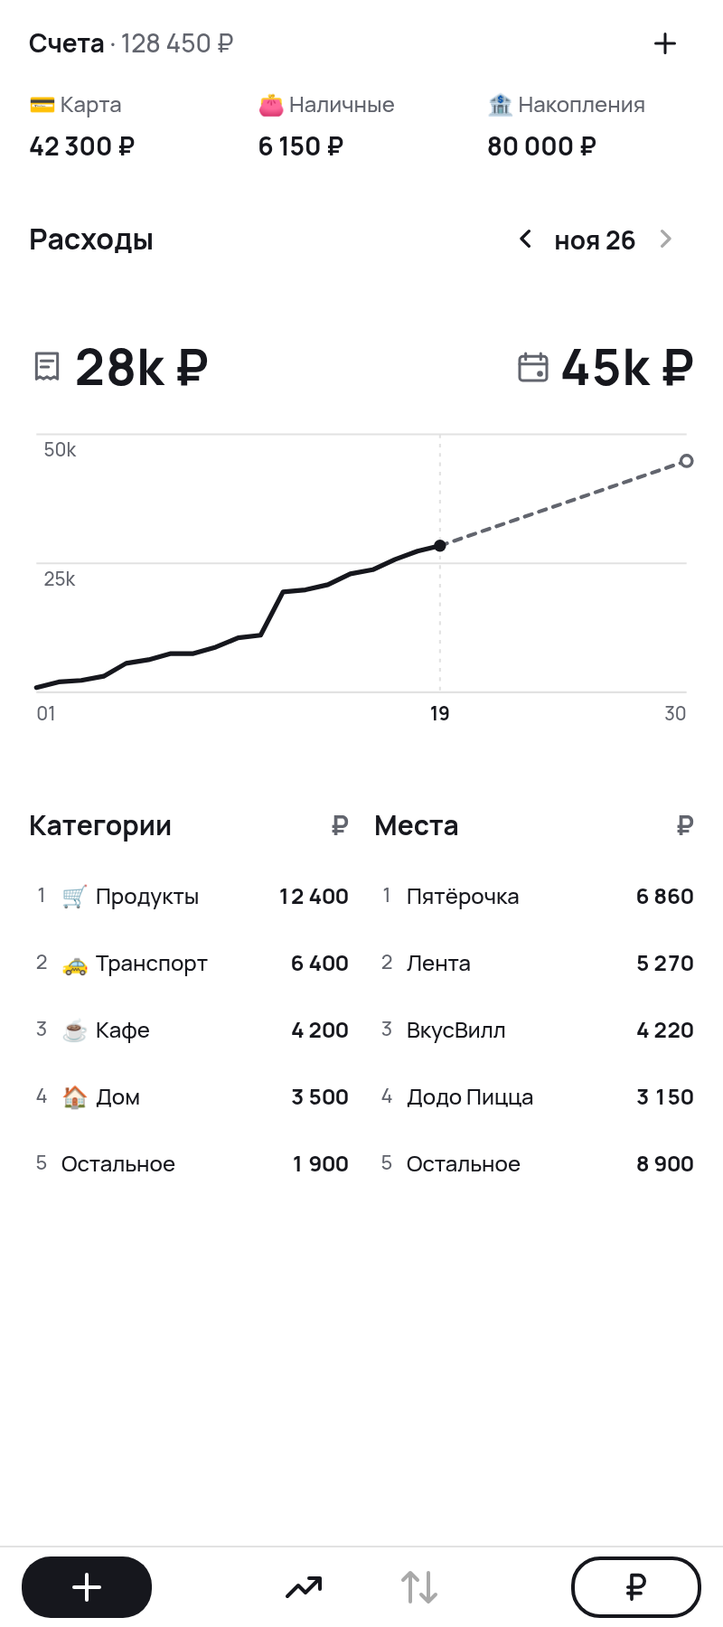
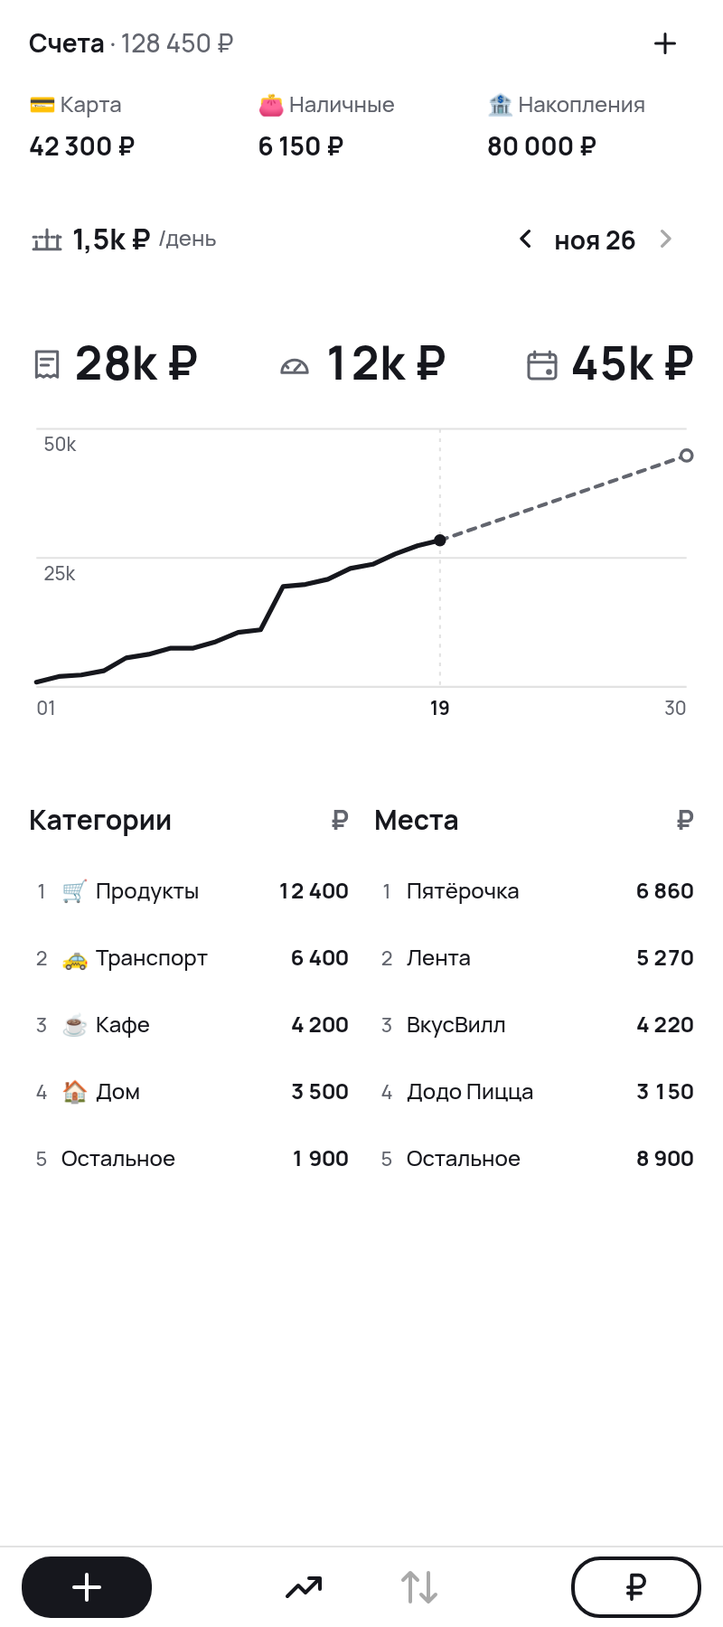
docs: preview daily spending and remaining monthly limit (#267)

diff --git a/design/approved/267/screens.html b/design/approved/267/screens.html
@@ -5,7 +5,7 @@
   *{box-sizing:border-box}body{margin:0;background:#eeeef1;color:var(--ink);font:14px/1.4 Manrope,sans-serif}
   main{max-width:960px;margin:auto;padding:24px 16px;display:grid;grid-template-columns:repeat(auto-fit,minmax(min(100%,320px),1fr));gap:20px;align-items:start}
   .screen{width:100%;max-width:390px;margin:auto;background:var(--surface);padding:16px 18px 14px;border-radius:16px}
-  h1,p{margin:0}h1{font-size:16px}
+  p{margin:0}
   .expenses-heading,.accounts-heading{display:flex;align-items:center;justify-content:space-between}
   .month-selector{display:flex;align-items:center;white-space:nowrap;font-weight:700}
   .month-selector button{display:grid;place-items:center;width:32px;height:40px;color:var(--ink);background:transparent;border:0;padding:0}
@@ -16,10 +16,13 @@
   .pace > svg{display:block;width:100%;height:auto;fill:var(--ink)}.grid,.trend{fill:none;stroke:var(--divider)}
   .pace > svg text{fill:var(--muted);font-size:10px}.trend{stroke:var(--ink);stroke-width:2.5;stroke-linecap:round;stroke-linejoin:round}
   .pace .current-date{fill:var(--ink);font-weight:700}.value-tick{paint-order:stroke;stroke:var(--surface);stroke-width:2.5px}
-  .pace-summary{display:flex;align-items:center;justify-content:space-between;gap:8px;margin-bottom:12px}
-  .pace-amount{display:flex;align-items:center;gap:5px;white-space:nowrap;font-size:clamp(20px,7.6cqw,28px);line-height:1.2;font-variant-numeric:tabular-nums}
+  .pace-summary{display:grid;grid-template-columns:repeat(3,minmax(0,1fr));align-items:center;gap:4px;margin-bottom:12px}
+  .pace-amount{display:flex;align-items:center;gap:5px;white-space:nowrap;font-size:clamp(17px,7cqw,28px);line-height:1.2;font-variant-numeric:tabular-nums}
+  .amount-actual{grid-column:1;justify-self:start}.amount-remaining{grid-column:2;justify-self:center}.amount-estimate{grid-column:3;justify-self:end}
   .pace-icon{display:grid;place-items:center;color:var(--muted)}
   .pace-icon svg{width:20px;height:20px}.pace-icon path{fill:none;stroke-linejoin:round}
+  .daily-average{display:flex;align-items:center;gap:4px;white-space:nowrap;font-size:16px}
+  .daily-average span:last-child{color:var(--muted);font-size:12px}
   .forecast{fill:none;stroke:var(--muted);stroke-width:2;stroke-dasharray:4 4;stroke-linecap:round}
   .cutoff{stroke:var(--divider);stroke-dasharray:2 3}.estimate-dot{fill:var(--surface);stroke:var(--muted);stroke-width:1.6}
   .tables{display:grid;grid-template-columns:repeat(2,minmax(0,1fr));gap:14px;align-items:start}
@@ -54,7 +57,15 @@
   .finance-tabs button[aria-current]{color:var(--ink)}
   @media(max-width:360px){.finance-body{padding-inline:12px}}
 </style><main>
-<div class="screen" id="overview"><div class="expenses-heading"><h1>Расходы</h1>
+<div class="screen" id="overview"><div class="expenses-heading">
+      <div class="daily-average">
+        <span class="pace-icon" role="img" aria-label="Средние расходы">
+          <svg viewBox="0 0 24 24" aria-hidden="true" stroke="currentColor" stroke-width="1.8" stroke-linecap="round">
+            <path d="M5 19v-5m7 5V6m7 13v-9M3 19h18"/>
+            <path d="M3 11h18" stroke-dasharray="2 2"/>
+          </svg></span>
+        <b>1,5k ₽</b><span>/день</span>
+      </div>
       <div class="month-selector" role="group" aria-label="Выбор месяца">
         <button aria-label="Предыдущий месяц"><svg viewBox="0 0 24 24" aria-hidden="true"><path d="m14 7-5 5 5 5" fill="none" stroke="currentColor" stroke-width="2" stroke-linecap="round" stroke-linejoin="round"/></svg></button><span>ноя 26</span>
         <button aria-label="Следующий месяц" disabled><svg viewBox="0 0 24 24" aria-hidden="true"><path d="m14 7-5 5 5 5" fill="none" stroke="currentColor" stroke-width="2" stroke-linecap="round" stroke-linejoin="round"/></svg></button>
@@ -65,7 +76,12 @@
         <svg viewBox="0 0 24 24" aria-hidden="true" stroke="currentColor" stroke-width="1.8" stroke-linecap="round">
           <path d="M5 3h14v17l-2.3-1.5-2.4 1.5-2.3-1.5L9.7 20l-2.4-1.5L5 20V3ZM8 8h8m-8 4h5"/>
         </svg></span>
-      <b>28k ₽</b></div><div class="pace-amount amount-estimate">
+      <b>28k ₽</b></div><div class="pace-amount amount-remaining">
+          <span class="pace-icon" role="img" aria-label="Осталось до лимита">
+            <svg viewBox="0 0 24 24" aria-hidden="true" stroke="currentColor" stroke-width="1.8" stroke-linecap="round">
+              <path d="M3.5 17a8.5 8.5 0 0 1 17 0h-17ZM12 15.5l3.5-4M6.7 12.7l1 1"/>
+            </svg></span>
+          <b>12k ₽</b></div><div class="pace-amount amount-estimate">
           <span class="pace-icon" role="img" aria-label="Прогноз на конец месяца">
             <svg viewBox="0 0 24 24" aria-hidden="true" fill="none" stroke="currentColor" stroke-width="1.8" stroke-linecap="round">
               <rect x="3" y="5" width="18" height="16" rx="2"/>
@@ -120,7 +136,12 @@
         <svg viewBox="0 0 24 24" aria-hidden="true" stroke="currentColor" stroke-width="1.8" stroke-linecap="round">
           <path d="M5 3h14v17l-2.3-1.5-2.4 1.5-2.3-1.5L9.7 20l-2.4-1.5L5 20V3ZM8 8h8m-8 4h5"/>
         </svg></span>
-      <b>57k ₽</b></div><div class="pace-amount amount-estimate">
+      <b>57k ₽</b></div><div class="pace-amount amount-remaining">
+          <span class="pace-icon" role="img" aria-label="Осталось до лимита">
+            <svg viewBox="0 0 24 24" aria-hidden="true" stroke="currentColor" stroke-width="1.8" stroke-linecap="round">
+              <path d="M3.5 17a8.5 8.5 0 0 1 17 0h-17ZM12 15.5l3.5-4M6.7 12.7l1 1"/>
+            </svg></span>
+          <b>23k ₽</b></div><div class="pace-amount amount-estimate">
           <span class="pace-icon" role="img" aria-label="Прогноз на конец месяца">
             <svg viewBox="0 0 24 24" aria-hidden="true" fill="none" stroke="currentColor" stroke-width="1.8" stroke-linecap="round">
               <rect x="3" y="5" width="18" height="16" rx="2"/>
@@ -139,7 +160,12 @@
         <svg viewBox="0 0 24 24" aria-hidden="true" stroke="currentColor" stroke-width="1.8" stroke-linecap="round">
           <path d="M5 3h14v17l-2.3-1.5-2.4 1.5-2.3-1.5L9.7 20l-2.4-1.5L5 20V3ZM8 8h8m-8 4h5"/>
         </svg></span>
-      <b>85k ₽</b></div><div class="pace-amount amount-estimate">
+      <b>85k ₽</b></div><div class="pace-amount amount-remaining">
+          <span class="pace-icon" role="img" aria-label="Осталось до лимита">
+            <svg viewBox="0 0 24 24" aria-hidden="true" stroke="currentColor" stroke-width="1.8" stroke-linecap="round">
+              <path d="M3.5 17a8.5 8.5 0 0 1 17 0h-17ZM12 15.5l3.5-4M6.7 12.7l1 1"/>
+            </svg></span>
+          <b>35k ₽</b></div><div class="pace-amount amount-estimate">
           <span class="pace-icon" role="img" aria-label="Прогноз на конец месяца">
             <svg viewBox="0 0 24 24" aria-hidden="true" fill="none" stroke="currentColor" stroke-width="1.8" stroke-linecap="round">
               <rect x="3" y="5" width="18" height="16" rx="2"/>
@@ -158,7 +184,15 @@
         <div class="accounts-heading"><span><b>Счета</b> · 128 450 ₽</span>
           <button class="account-add" aria-label="Создать счёт"><svg viewBox="0 0 24 24" aria-hidden="true"><path d="M12 5v14M5 12h14" stroke="currentColor" stroke-width="2" stroke-linecap="round"/></svg></button></div>
         <div class="accounts"><div><p>💳 Карта</p><b>42 300 ₽</b></div><div><p>👛 Наличные</p><b>6 150 ₽</b></div><div><p>🏦 Накопления</p><b>80 000 ₽</b></div></div>
-        <div class="expenses-heading"><h1>Расходы</h1>
+        <div class="expenses-heading">
+      <div class="daily-average">
+        <span class="pace-icon" role="img" aria-label="Средние расходы">
+          <svg viewBox="0 0 24 24" aria-hidden="true" stroke="currentColor" stroke-width="1.8" stroke-linecap="round">
+            <path d="M5 19v-5m7 5V6m7 13v-9M3 19h18"/>
+            <path d="M3 11h18" stroke-dasharray="2 2"/>
+          </svg></span>
+        <b>1,5k ₽</b><span>/день</span>
+      </div>
       <div class="month-selector" role="group" aria-label="Выбор месяца">
         <button aria-label="Предыдущий месяц"><svg viewBox="0 0 24 24" aria-hidden="true"><path d="m14 7-5 5 5 5" fill="none" stroke="currentColor" stroke-width="2" stroke-linecap="round" stroke-linejoin="round"/></svg></button><span>ноя 26</span>
         <button aria-label="Следующий месяц" disabled><svg viewBox="0 0 24 24" aria-hidden="true"><path d="m14 7-5 5 5 5" fill="none" stroke="currentColor" stroke-width="2" stroke-linecap="round" stroke-linejoin="round"/></svg></button>
@@ -169,7 +203,12 @@
         <svg viewBox="0 0 24 24" aria-hidden="true" stroke="currentColor" stroke-width="1.8" stroke-linecap="round">
           <path d="M5 3h14v17l-2.3-1.5-2.4 1.5-2.3-1.5L9.7 20l-2.4-1.5L5 20V3ZM8 8h8m-8 4h5"/>
         </svg></span>
-      <b>28k ₽</b></div><div class="pace-amount amount-estimate">
+      <b>28k ₽</b></div><div class="pace-amount amount-remaining">
+          <span class="pace-icon" role="img" aria-label="Осталось до лимита">
+            <svg viewBox="0 0 24 24" aria-hidden="true" stroke="currentColor" stroke-width="1.8" stroke-linecap="round">
+              <path d="M3.5 17a8.5 8.5 0 0 1 17 0h-17ZM12 15.5l3.5-4M6.7 12.7l1 1"/>
+            </svg></span>
+          <b>12k ₽</b></div><div class="pace-amount amount-estimate">
           <span class="pace-icon" role="img" aria-label="Прогноз на конец месяца">
             <svg viewBox="0 0 24 24" aria-hidden="true" fill="none" stroke="currentColor" stroke-width="1.8" stroke-linecap="round">
               <rect x="3" y="5" width="18" height="16" rx="2"/>

diff --git a/design/approved/267/render.js b/design/approved/267/render.js
@@ -31,8 +31,9 @@ const path = require('node:path');
     assert.equal(await pace.getAttribute('data-days'), '30');
     assert.equal(await pace.getAttribute('data-actual-days'), '19');
     assert.match(await pace.locator('.amount-actual').innerText(), /^28k\s₽$/);
+    assert.match(await pace.locator('.amount-remaining').innerText(), /^12k\s₽$/);
     assert.match(await pace.locator('.amount-estimate').innerText(), /^45k\s₽$/);
-    assert.equal(await pace.locator('.pace-summary svg').count(), 2);
+    assert.equal(await pace.locator('.pace-summary svg').count(), 3);
     assert.deepEqual(await pace.locator('.date-tick, .current-date').allTextContents(), ['01', '19', '30']);
     assert.equal(await pace.locator('.current-date').textContent(), '19');
     const coordinates = await pace.evaluate(panel => {
@@ -82,10 +83,11 @@ const path = require('node:path');
     assert(await page.evaluate(() => document.documentElement.scrollWidth <= innerWidth));
     const largestSummary = charts.at(-1).locator('.pace-summary');
     const amountsFit = await largestSummary.evaluate(summary => {
-      const [actual, forecast] = Array.from(summary.children, child => child.getBoundingClientRect());
-      return summary.scrollWidth <= summary.clientWidth && actual.y === forecast.y && actual.right < forecast.left;
+      const [actual, remaining, forecast] = Array.from(summary.children, child => child.getBoundingClientRect());
+      return summary.scrollWidth <= summary.clientWidth && actual.y === remaining.y && remaining.y === forecast.y &&
+        actual.right < remaining.left && remaining.right < forecast.left;
     });
-    assert(amountsFit, 'Две суммы с иконками помещаются в одну строку при ширине 320 px');
+    assert(amountsFit, 'Три суммы с иконками помещаются в одну строку при ширине 320 px');
     const categoryBox = await overview.locator('table.categories').boundingBox();
     const placeBox = await overview.locator('table.places').boundingBox();
     assert(categoryBox.x + categoryBox.width <= placeBox.x, 'Категории слева от мест');
@@ -105,7 +107,7 @@ const path = require('node:path');
     await page.locator('#missing').screenshot({ path: path.join(__dirname, 'without-places.png') });
 
     const finance = page.locator('#finance');
-    assert.equal(await finance.locator('.expenses-heading h1').innerText(), 'Расходы');
+    assert.match(await finance.locator('.daily-average').innerText(), /^1,5k\s+₽\s*\/день$/);
     assert.equal(await finance.locator('.month-selector span').innerText(), 'ноя 26');
     assert(await finance.evaluate(screen => screen.scrollWidth <= screen.clientWidth));
     await page.setViewportSize({ width: 400, height: 900 });

diff --git a/design/approved/267/screens.py b/design/approved/267/screens.py
@@ -13,6 +13,7 @@ color = design['color']
 dim = design['dim']
 vector = design['vector']
 month_label = 'ноя 26'
+monthly_limit = 40_000
 daily = [900, 1100, 300, 800, 2500, 700, 1200, 0, 1250, 1800, 500, 8400, 400, 1000, 2100, 800, 2000, 1600, 1050]
 categories = [('Продукты', '🛒', 12400), ('Транспорт', '🚕', 6400), ('Кафе', '☕', 4200), ('Дом', '🏠', 3500), ('Здоровье', '💊', 1100), ('Связь', '📱', 800)]
 places = [('Пятёрочка', 6860), ('Лента', 5270), ('ВкусВилл', 4220), ('Додо Пицца', 3150), ('Аптека', 2100), ('Кофейня', 900)]
@@ -30,11 +31,14 @@ def money(amount):
     return digits(amount) + '\u00a0₽'
 
 
-def compact_money(amount):
+def compact_money(amount, *, tenths=False):
     if amount < 1000:
         return money(round(amount))
-    thousands = int((amount + 500) // 1000)
-    return f'{digits(thousands)}k\u00a0₽'
+    if tenths:
+        thousands = f'{amount / 1000:,.1f}'.removesuffix('.0').replace(',', '\u00a0').replace('.', ',')
+    else:
+        thousands = digits(int((amount + 500) // 1000))
+    return f'{thousands}k\u00a0₽'
 
 
 def scale_ceiling(amount):
@@ -44,7 +48,7 @@ def scale_ceiling(amount):
     return next(int(step * magnitude) for step in steps if step * magnitude >= amount)
 
 
-def pace(amounts, year, month):
+def pace(amounts, year, month, limit=None):
     last_day = monthrange(year, month)[1]
     as_of = len(amounts)
     assert 1 <= as_of <= last_day
@@ -84,7 +88,16 @@ def pace(amounts, year, month):
         cutoff = f'<line x1="{x(as_of):.2f}" y1="{top}" x2="{x(as_of):.2f}" y2="{bottom}" class="cutoff"/>'
     forecast = ''
     estimate_amount = ''
+    remaining_amount = ''
     description = f'С 1 по {as_of} число потрачено {money(actual)}.'
+    if limit is not None:
+        remaining = max(0, limit - actual)
+        remaining_amount = f'''<div class="pace-amount amount-remaining">
+          <span class="pace-icon" role="img" aria-label="Осталось до лимита">
+            <svg viewBox="0 0 24 24" aria-hidden="true" stroke="currentColor" stroke-width="1.8" stroke-linecap="round">
+              <path d="M3.5 17a8.5 8.5 0 0 1 17 0h-17ZM12 15.5l3.5-4M6.7 12.7l1 1"/>
+            </svg></span>
+          <b>{compact_money(remaining)}</b></div>'''
     if estimate is not None:
         description += f' Прогноз на {last_day} число — около {money(round(estimate))}.'
         estimate_amount = f'''<div class="pace-amount amount-estimate">
@@ -103,7 +116,7 @@ def pace(amounts, year, month):
         <svg viewBox="0 0 24 24" aria-hidden="true" stroke="currentColor" stroke-width="1.8" stroke-linecap="round">
           <path d="M5 3h14v17l-2.3-1.5-2.4 1.5-2.3-1.5L9.7 20l-2.4-1.5L5 20V3ZM8 8h8m-8 4h5"/>
         </svg></span>
-      <b>{compact_money(actual)}</b></div>{estimate_amount}</div>
+      <b>{compact_money(actual)}</b></div>{remaining_amount}{estimate_amount}</div>
     <svg viewBox="0 0 356 178" role="img" aria-label="{description}">
       <path d="{grid}" class="grid"/>{cutoff}{forecast}
       <polyline points="{coords}" class="trend"/>
@@ -141,12 +154,21 @@ def rankings(named_places=places):
 
 
 def month_content():
-    return pace(daily, 2026, 11) + rankings()
+    return pace(daily, 2026, 11, monthly_limit) + rankings()
 
 
 def expenses_heading():
     prev = '<svg viewBox="0 0 24 24" aria-hidden="true"><path d="m14 7-5 5 5 5" fill="none" stroke="currentColor" stroke-width="2" stroke-linecap="round" stroke-linejoin="round"/></svg>'
-    return f'''<div class="expenses-heading"><h1>Расходы</h1>
+    average = compact_money(total / len(daily), tenths=True)
+    return f'''<div class="expenses-heading">
+      <div class="daily-average">
+        <span class="pace-icon" role="img" aria-label="Средние расходы">
+          <svg viewBox="0 0 24 24" aria-hidden="true" stroke="currentColor" stroke-width="1.8" stroke-linecap="round">
+            <path d="M5 19v-5m7 5V6m7 13v-9M3 19h18"/>
+            <path d="M3 11h18" stroke-dasharray="2 2"/>
+          </svg></span>
+        <b>{average}</b><span>/день</span>
+      </div>
       <div class="month-selector" role="group" aria-label="Выбор месяца">
         <button aria-label="Предыдущий месяц">{prev}</button><span>{month_label}</span>
         <button aria-label="Следующий месяц" disabled>{prev}</button>
@@ -181,7 +203,7 @@ CSS = design['fonts'] + f''':root{{--ink:{color('textPrimary')};--muted:{color('
   *{box-sizing:border-box}body{margin:0;background:#eeeef1;color:var(--ink);font:14px/1.4 Manrope,sans-serif}
   main{max-width:960px;margin:auto;padding:24px 16px;display:grid;grid-template-columns:repeat(auto-fit,minmax(min(100%,320px),1fr));gap:20px;align-items:start}
   .screen{width:100%;max-width:390px;margin:auto;background:var(--surface);padding:16px 18px 14px;border-radius:16px}
-  h1,p{margin:0}h1{font-size:16px}
+  p{margin:0}
   .expenses-heading,.accounts-heading{display:flex;align-items:center;justify-content:space-between}
   .month-selector{display:flex;align-items:center;white-space:nowrap;font-weight:700}
   .month-selector button{display:grid;place-items:center;width:32px;height:40px;color:var(--ink);background:transparent;border:0;padding:0}
@@ -192,10 +214,13 @@ CSS = design['fonts'] + f''':root{{--ink:{color('textPrimary')};--muted:{color('
   .pace > svg{display:block;width:100%;height:auto;fill:var(--ink)}.grid,.trend{fill:none;stroke:var(--divider)}
   .pace > svg text{fill:var(--muted);font-size:10px}.trend{stroke:var(--ink);stroke-width:2.5;stroke-linecap:round;stroke-linejoin:round}
   .pace .current-date{fill:var(--ink);font-weight:700}.value-tick{paint-order:stroke;stroke:var(--surface);stroke-width:2.5px}
-  .pace-summary{display:flex;align-items:center;justify-content:space-between;gap:8px;margin-bottom:12px}
-  .pace-amount{display:flex;align-items:center;gap:5px;white-space:nowrap;font-size:clamp(20px,7.6cqw,28px);line-height:1.2;font-variant-numeric:tabular-nums}
+  .pace-summary{display:grid;grid-template-columns:repeat(3,minmax(0,1fr));align-items:center;gap:4px;margin-bottom:12px}
+  .pace-amount{display:flex;align-items:center;gap:5px;white-space:nowrap;font-size:clamp(17px,7cqw,28px);line-height:1.2;font-variant-numeric:tabular-nums}
+  .amount-actual{grid-column:1;justify-self:start}.amount-remaining{grid-column:2;justify-self:center}.amount-estimate{grid-column:3;justify-self:end}
   .pace-icon{display:grid;place-items:center;color:var(--muted)}
   .pace-icon svg{width:20px;height:20px}.pace-icon path{fill:none;stroke-linejoin:round}
+  .daily-average{display:flex;align-items:center;gap:4px;white-space:nowrap;font-size:16px}
+  .daily-average span:last-child{color:var(--muted);font-size:12px}
   .forecast{fill:none;stroke:var(--muted);stroke-width:2;stroke-dasharray:4 4;stroke-linecap:round}
   .cutoff{stroke:var(--divider);stroke-dasharray:2 3}.estimate-dot{fill:var(--surface);stroke:var(--muted);stroke-width:1.6}
   .tables{display:grid;grid-template-columns:repeat(2,minmax(0,1fr));gap:14px;align-items:start}
@@ -236,6 +261,6 @@ document = f'''<!doctype html><html lang="ru"><meta charset="utf-8"><meta name="
 {month_content()}</div>
 <div class="screen small" id="missing">{rankings(named_places=[])}</div>
 <div class="screen small" id="completed">{pace([*daily, *([650] * 12)], 2026, 10)}</div>
-<div class="screen" id="scale-examples">{''.join(pace([amount * factor for amount in daily], 2026, 11) for factor in (2, 3))}</div>
+<div class="screen" id="scale-examples">{''.join(pace([amount * factor for amount in daily], 2026, 11, monthly_limit * factor) for factor in (2, 3))}</div>
 {finance_home()}</main></html>'''
 (HERE / 'screens.html').write_text(document)

diff --git a/design/approved/267/README.md b/design/approved/267/README.md
@@ -2,13 +2,13 @@
 
 19.11.2026. Codex. Три блока по последнему уточнению PM. Темп расходов со шкалой на целый месяц и пунктирным прогнозом, две таблицы в одной строке, категории слева и места справа. На согласовании формула и детали отображения. [Требования](requirements.md) · [Issue #267](https://github.com/prostovasei/simpe-tasks-app/issues/267).
 
-- [Первый экран «Финансы» целиком](finance-home.png). Слева «Расходы», справа выбор месяца в формате «ноя 26». Счета и аналитика на общем белом фоне. Вкладка «Аналитика» выбрана.
+- [Первый экран «Финансы» целиком](finance-home.png). Слева средние расходы за день, справа выбор месяца в формате «ноя 26». Счета и аналитика на общем белом фоне. Вкладка «Аналитика» выбрана.
 - [Аналитика месяца крупнее](month.png) с тремя блоками на вымышленных суммах.
 - [Шкалы графика до 100k и 150k](chart-scales.png). Под графиком дни в формате 01, 19, 30. Денежные подписи стоят под верхней и средней горизонталями.
 - [Две таблицы крупнее](rankings.png) · [узкий экран 320 px](rankings-narrow.png). В каждой четыре лидера и строка «Остальное» с номером 5.
 - [Операции без указанного места](without-places.png). В правой таблице только «Остальное» с полной суммой.
 - [HTML](screens.html) · [генератор](screens.py) · [рендер](render.js).
 
-Аналитика расположена под счетами и переключателем месяца. В строке над графиком потраченная сумма с иконкой кассового чека и прогноз с иконкой календаря с отмеченным последним днём. Пример округлённых сумм — 28k ₽ и 45k ₽. Пунктир продолжается от сегодняшней суммы до прогноза на конец месяца. В обеих таблицах номер, название и сумма. У категорий есть иконки. Расходы без места входят в «Остальное» справа. Знак ₽ указан над каждой колонкой сумм. Названия магазинов приведены для примера. [Плоский стиль «Недели»](../../../app/screenshots/week_light.png) · [Порядок элементов в «Финансах»](../../../app/screenshots/finance_analytics_light.png).
+Аналитика расположена под счетами и переключателем месяца. Над графиком три суммы. Чек обозначает потраченное, шкала — остаток до лимита, календарь — прогноз. При демонстрационном лимите 40k ₽ отображается 28k ₽, 12k ₽ и 45k ₽. Пунктир продолжается от сегодняшней суммы до прогноза на конец месяца. В обеих таблицах номер, название и сумма. У категорий есть иконки. Расходы без места входят в «Остальное» справа. Знак ₽ указан над каждой колонкой сумм. Названия магазинов приведены для примера. [Плоский стиль «Недели»](../../../app/screenshots/week_light.png) · [Порядок элементов в «Финансах»](../../../app/screenshots/finance_analytics_light.png).
 
-Воспроизведение из корня: `python3 design/approved/267/screens.py && node design/approved/267/render.js`. Сверены суммы, положение точки факта и конца прогноза, горизонтали и подписи шкал 50k, 100k и 150k. Проверены завершённый месяц, строка «Остальное», размещение двух сумм и таблиц на ширине 320 px. Для изменения Android-кода нужна команда «Делай код».
+Воспроизведение из корня: `python3 design/approved/267/screens.py && node design/approved/267/render.js`. Сверены суммы, среднее за день, положение точки факта и конца прогноза, горизонтали и подписи шкал 50k, 100k и 150k. Проверены завершённый месяц, строка «Остальное», размещение трёх сумм и таблиц на ширине 320 px. Для изменения Android-кода нужна команда «Делай код».

diff --git a/design/approved/267/requirements.md b/design/approved/267/requirements.md
@@ -10,6 +10,7 @@
 6. Знак ₽ стоит над колонкой сумм каждой таблицы. В ячейках только числа. Сумма строк каждой таблицы равна фактическим расходам месяца.
 7. Первый экран «Финансы» оформлен в плоском стиле «Недели». Счета, переключатель месяца, итог, график и обе таблицы расположены на общем белом фоне. Блоки контента разделены отступами. «+» у счетов и стрелки месяца показаны значками без подложки. Нижняя панель использует общий стиль модулей.
 8. Дни под графиком записаны двумя цифрами, например 01, 19, 30. В текущем месяце сегодняшняя дата выделена, над ней проходит вертикальный пунктир. Три горизонтали соответствуют нулю, половине шкалы и её верхней границе. Подписи в формате 150k и 75k стоят под верхней и средней горизонталями. Граница округляется вверх по прогнозу или по факту завершённого месяца. Для пустого графика верхняя отметка 1k.
-9. Над графиком одна строка с крупными суммами в формате 28k ₽, с округлением до целых тысяч. Суммы меньше тысячи отображаются в рублях. Слева потраченная сумма с иконкой кассового чека, справа прогноз с иконкой календаря с отмеченным последним днём. Выше слева «Расходы», справа переключатель месяца в формате «ноя 26».
+9. Над графиком одна строка с крупными суммами в формате 28k ₽, с округлением до целых тысяч. Суммы меньше тысячи отображаются в рублях. Слева потраченная сумма с иконкой кассового чека, в центре остаток до лимита с иконкой шкалы, справа прогноз с иконкой календаря. Остаток равен лимиту минус фактические расходы. При исчерпанном лимите отображается 0 ₽. В макете задан пример лимита 40 000 ₽, остаток 11 600 ₽ отображается как 12k ₽.
+10. Слева от переключателя месяца показаны средние расходы за календарный день с иконкой столбцов и средней линии. Расходы делятся на число прошедших дней, включая сегодня и дни с нулевыми расходами. В примере отображается 1,5k ₽/день. Справа переключатель месяца в формате «ноя 26».
 
 Рабочая ветка codex/finance-month-insights от main 5992db2. Детали оформления и формула прогноза на согласовании. После показа макета для Android-реализации нужна отдельная команда «Делай код».
